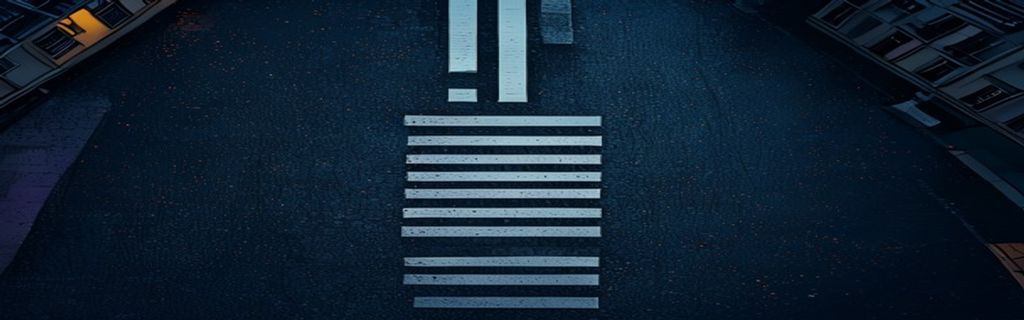
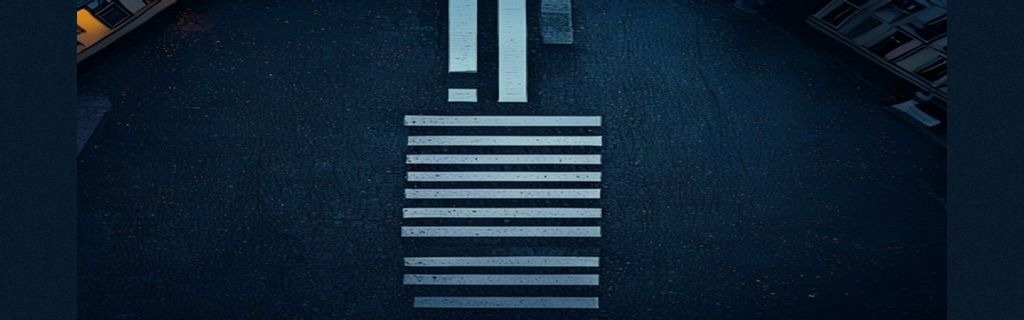
fix(levels): inset the hostage-QTE crossing 15% (asphalt shoulders)
Bertrand: the passage piéton should be a touch narrower — it must not reach the
kerbs. FLUX can't set width to the percent, so trim the full-width seed-6601
generation in post: repaint the outer 7.5% each side with the image's own sampled
dark-asphalt tone + grain, leaving asphalt shoulders and a crossing ~85% of the
road width. Deterministic retouch on the committed PNG; FLUX prompt unchanged
(still describes the full-width generation). Re-composited under the facade at the
exact QTE framing.

Claude-Session: https://claude.ai/code/session_01SYo8TB9h8RJgfM1nq1ad5L

diff --git a/docs/art-direction/prompt-drafts/level-street.md b/docs/art-direction/prompt-drafts/level-street.md
@@ -32,6 +32,15 @@ far left edge to the far right edge of the frame, evenly stacked and covering th
 whole road, flat level ground plane, no horizon
 ```
 
+**Committed asset = seed 6601 + a 15% width inset (post retouch).** Bertrand's final
+call: the crossing must be a touch narrower — it should NOT reach the kerbs. FLUX cannot
+dial width to the percent, so the full-width seed-6601 generation is trimmed in post: the
+outer 7.5% on each side is repainted with the image's own sampled dark-asphalt tone
+(mean of the dark bluish pixels) + grain, giving asphalt shoulders and a crossing ~85%
+of the road width. Deterministic scripted retouch (repo precedent: `scripts/retouch-*.mjs`);
+the FLUX prompt above intentionally still describes the full-width generation. Re-composited
+under the facade at QTE framing to confirm the shoulders read as asphalt, not a seam.
+
 Rationale (clause → the failure it locks down):
 
 - `flat overhead top-down view … seen straight from directly above` → kills the
